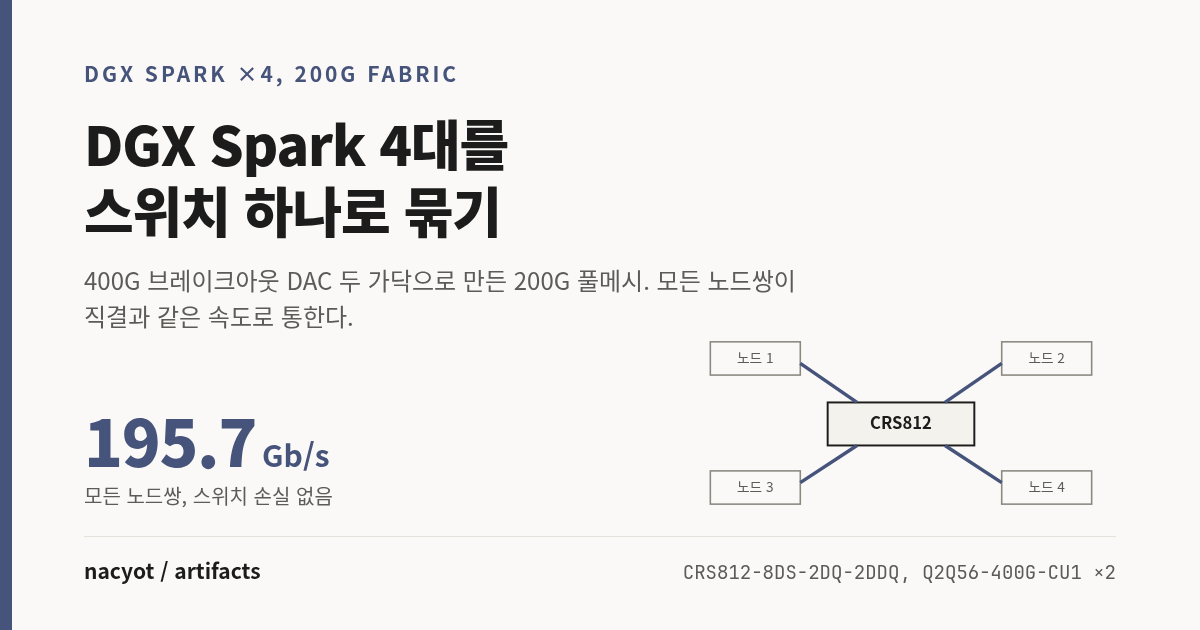
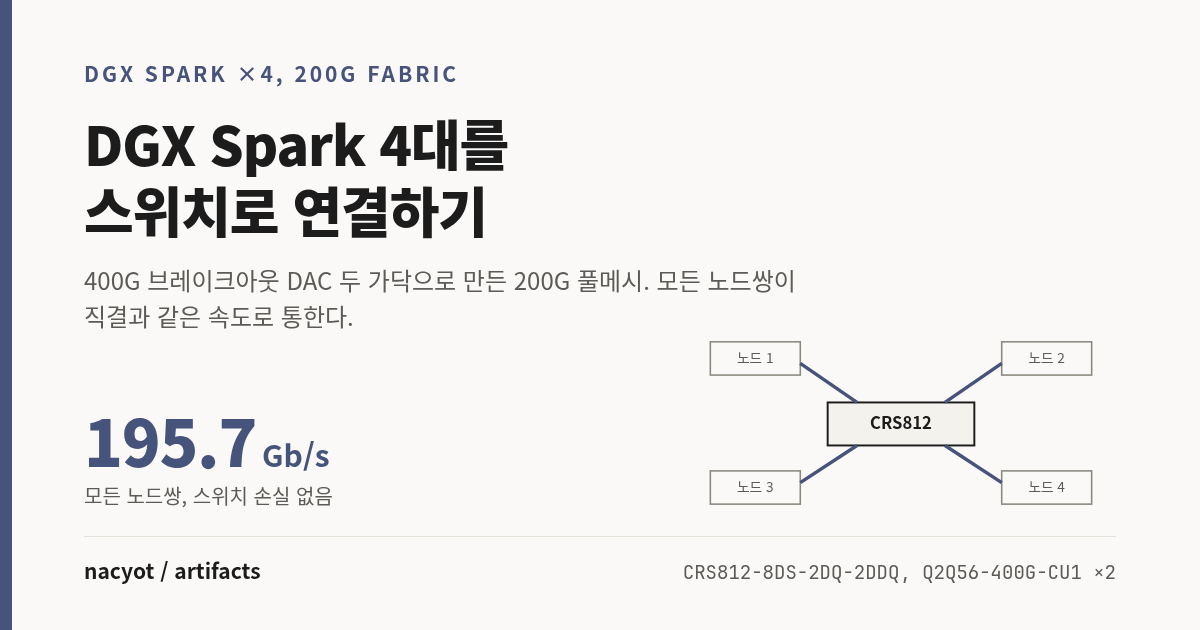
dgx-spark-4node-200g-switch: 제목 변경 (200G 풀메시 네트워크 구축)
Claude-Session: https://claude.ai/code/session_014u2yx3ieTC7GNzWgLahRmo

Changed region(s): [[0.185, 0.2714, 0.4317, 0.3921]]

diff --git a/dgx-spark-4node-200g-switch/index.html b/dgx-spark-4node-200g-switch/index.html
@@ -1,4 +1,4 @@
-<!DOCTYPE html><html lang="ko"><head><meta charset="utf-8"><meta name="viewport" content="width=device-width, initial-scale=1"><title>DGX Spark 4대를 스위치로 묶기: MikroTik CRS812와 400G 브레이크아웃 DAC</title><meta name="description" content="DGX Spark(GB10) 2대 직결 클러스터를 MikroTik CRS812 스위치 기반 4노드 200G 패브릭으로 확장한 기록. QSFP-DD 400G를 2x200G로 나누는 브레이크아웃 DAC, 자동 협상 실패와 강제 속도 지정, L2MTU 점보 드롭, VLAN 격리까지. 모든 노드쌍 195.7Gb/s로 직결과 동일함을 실측."><meta property="og:title" content="DGX Spark 4대를 스위치로 묶기"><meta property="og:description" content="MikroTik CRS812와 400G 브레이크아웃 DAC 두 가닥으로 만든 4노드 200G 풀메시. 모든 노드쌍 195.7Gb/s, 직결과 동일."><meta property="og:type" content="article"><meta property="og:url" content="https://artifacts.nacyot.com/dgx-spark-4node-200g-switch/"><meta property="og:image" content="https://artifacts.nacyot.com/dgx-spark-4node-200g-switch/og.png"><meta name="twitter:card" content="summary_large_image"><style>
+<!DOCTYPE html><html lang="ko"><head><meta charset="utf-8"><meta name="viewport" content="width=device-width, initial-scale=1"><title>DGX Spark 4대를 스위치로 연결하기: 200G 풀메시 네트워크 구축</title><meta name="description" content="DGX Spark(GB10) 2대 직결 클러스터를 MikroTik CRS812 스위치 기반 4노드 200G 패브릭으로 확장한 기록. QSFP-DD 400G를 2x200G로 나누는 브레이크아웃 DAC, 자동 협상 실패와 강제 속도 지정, L2MTU 점보 드롭, VLAN 격리까지. 모든 노드쌍 195.7Gb/s로 직결과 동일함을 실측."><meta property="og:title" content="DGX Spark 4대를 스위치로 연결하기"><meta property="og:description" content="MikroTik CRS812와 400G 브레이크아웃 DAC 두 가닥으로 만든 4노드 200G 풀메시. 모든 노드쌍 195.7Gb/s, 직결과 동일."><meta property="og:type" content="article"><meta property="og:url" content="https://artifacts.nacyot.com/dgx-spark-4node-200g-switch/"><meta property="og:image" content="https://artifacts.nacyot.com/dgx-spark-4node-200g-switch/og.png"><meta name="twitter:card" content="summary_large_image"><style>
 :root{--paper:#faf9f7;--ink:#1c1c1c;--soft:#5b5b57;--faint:#b7b5ad;--rule:#e4e2da;--box:#f3f2ec;
       --hi:#46537a;--bar:#cbc9bf;--barhi:#46537a}
 *{box-sizing:border-box}
@@ -43,7 +43,7 @@ details[open] summary::before{content:"▾ "}
  .bar{grid-template-columns:1fr auto}.bar .bl{text-align:left;grid-column:1/-1}}
 </style><link rel="canonical" href="https://artifacts.nacyot.com/dgx-spark-4node-200g-switch/"></head><body><div class="doc">
 <div class="kicker">DGX Spark ×4 / MikroTik CRS812</div>
-<h1>DGX Spark 4대를 스위치로 묶기:<br>노드당 케이블 한 가닥으로 200G 풀메시</h1>
+<h1>DGX Spark 4대를 스위치로 연결하기:<br>200G 풀메시 네트워크 구축</h1>
 
 <p><a href="../deepseek-v4-flash-2x-dgx-spark/">앞선 기록</a>에서 GB10(DGX Spark) 2대를 DAC 한 가닥으로 직결해 196Gb/s 인터커넥트를 만들었다. 노드가 4대가 되면서 직결로는 답이 없어졌고, 스위치를 들였다. 이 글은 그 과정 전체다. 장비와 케이블 선택, 링크가 하나도 안 올라오던 브링업, 그리고 "스위치를 거치면 얼마나 느려지는가"에 대한 실측 답까지.</p>
 

diff --git a/index.html b/index.html
@@ -63,7 +63,7 @@
 
 <a class="item" href="./dgx-spark-4node-200g-switch/">
   <img class="thumb" src="./dgx-spark-4node-200g-switch/og.png" alt="" loading="lazy" width="1200" height="630">
-  <div class="body">  <h2>DGX Spark 4대를 스위치로 묶기: 노드당 케이블 한 가닥으로 200G 풀메시</h2>
+  <div class="body">  <h2>DGX Spark 4대를 스위치로 연결하기: 200G 풀메시 네트워크 구축</h2>
   <p>2대 직결 클러스터를 MikroTik CRS812와 400G 브레이크아웃 DAC 두 가닥으로 4노드 200G 풀메시로 확장. 초기 접속부터 자동 협상 실패, 점보 드롭, VLAN 격리까지 브링업 전 과정과 모든 노드쌍 195.7Gb/s(직결과 동일) 검증. TP/PP 병렬화 구성별 데이터 흐름 애니메이션 포함</p>
   <div class="meta">
     <span class="tag">구축기</span>

diff --git a/dgx-spark-4node-200g-switch/og.html b/dgx-spark-4node-200g-switch/og.html
@@ -21,7 +21,7 @@
 <div class="bar"></div>
 <div class="wrap">
   <div class="kicker">DGX SPARK ×4, 200G FABRIC</div>
-  <h1>DGX Spark 4대를<br>스위치 하나로 묶기</h1>
+  <h1>DGX Spark 4대를<br>스위치로 연결하기</h1>
   <div class="sub">400G 브레이크아웃 DAC 두 가닥으로 만든 200G 풀메시. 모든 노드쌍이 직결과 같은 속도로 통한다.</div>
   <div class="stage">
     <div class="stat">
